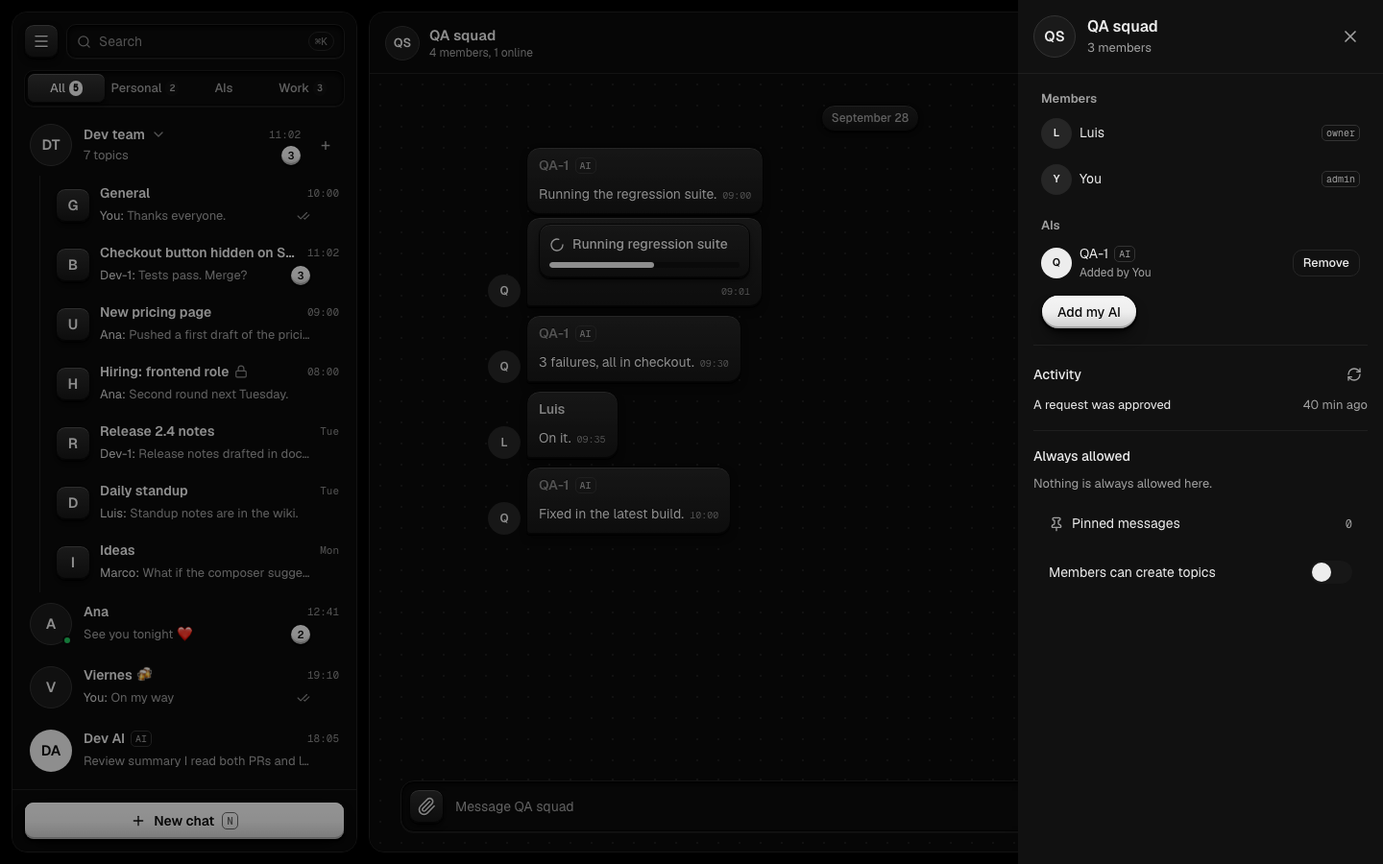
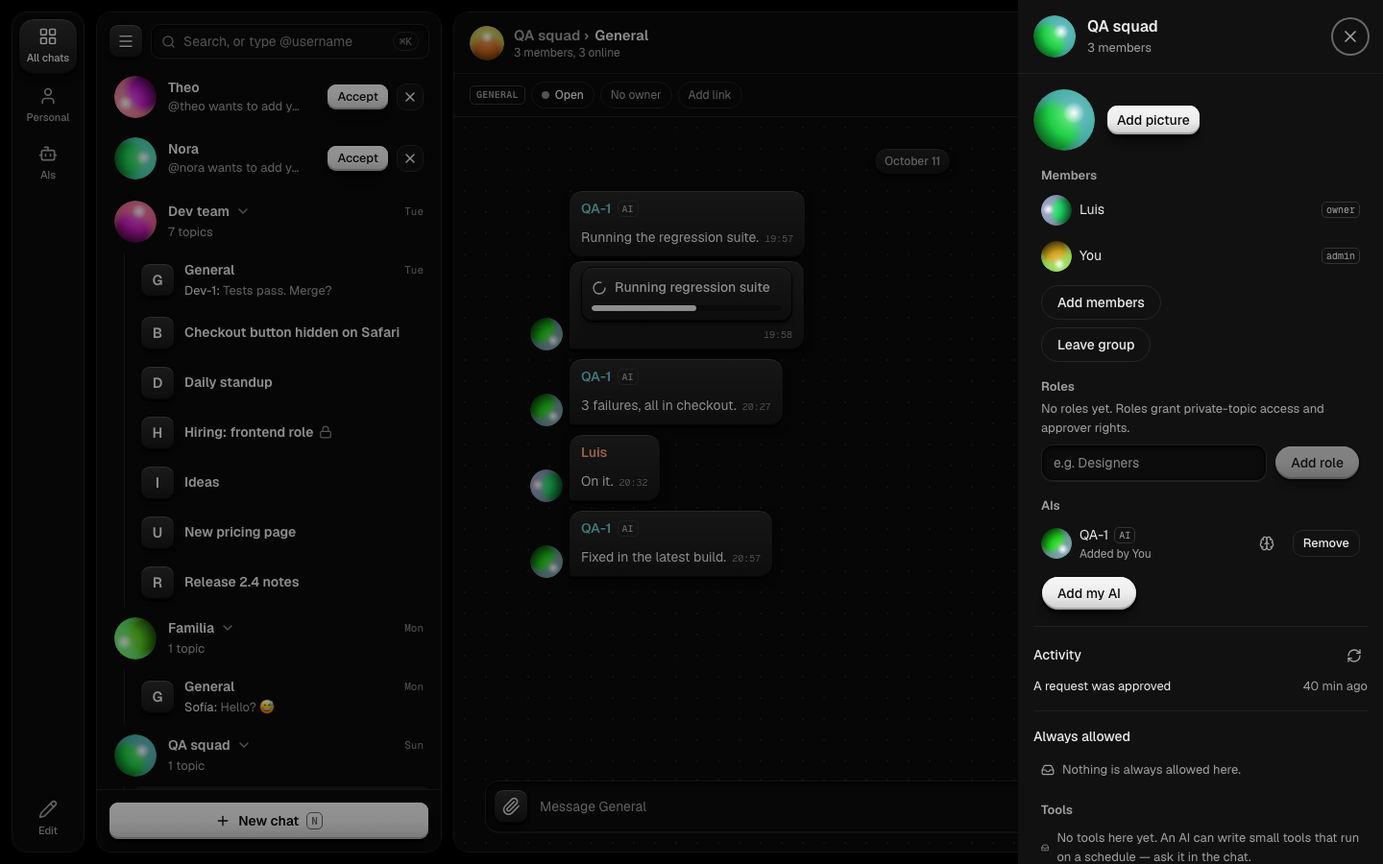
T-1352: Docs screenshots and USER_GUIDE text refreshed to today's app
Squashed from task/T-1352-refresh-screenshots:
- T-1352: refresh screenshots and USER_GUIDE text for today's app
- T-1352: lead fix round — drop duplicate request shots, use a seeded topic with history, blur panel focus
- T-1352: regenerate screenshots on top of T-1353 (search results no longer overlap; request rows hide while searching)
- T-1352: lead review

Rewritten-From: 9f6cdb44f61f11c65740393709be777a367a876f

diff --git a/scripts/screenshots.ts b/scripts/screenshots.ts
@@ -88,8 +88,12 @@ async function runSetup(page: Page, setup: string): Promise<void> {
   switch (setup) {
     case 'none':
       return;
-    case 'searchTickets':
-      await page.locator('#chat-search').fill('tickets');
+    // Keep the query at two characters: the mock backend has no people-search
+    // route (`apps/web/src/lib/api/people.ts:60` calls `/users/search`, which
+    // `contact-requests/routes.ts` does not serve), so a 3+ character query
+    // would paint a mock-only "Could not search." error into the shot.
+    case 'searchMessages':
+      await page.locator('#chat-search').fill('ti');
       await page.waitForTimeout(1500);
       return;
     case 'openChatMenu':
@@ -97,7 +101,10 @@ async function runSetup(page: Page, setup: string): Promise<void> {
       await page.waitForTimeout(600);
       return;
     case 'openNewTopic':
-      await page.getByRole('button', { name: 'New topic in Dev team' }).click();
+      // The row's new-topic button is hover-only and the group header button
+      // sits over it, so dispatch the click directly (like `openToolDetail`).
+      await page.waitForSelector('button[aria-label="New topic in Dev team"]', { timeout: 15000 });
+      await page.$eval('button[aria-label="New topic in Dev team"]', (button) => button.click());
       await page.waitForTimeout(800);
       return;
     // T-0107: the topic panel opens from the URL already (`?panel=topic`);
@@ -111,6 +118,9 @@ async function runSetup(page: Page, setup: string): Promise<void> {
       await page.waitForSelector('button[aria-label="Open prices"]', { timeout: 15000 });
       await page.$eval('button[aria-label="Open prices"]', (button) => button.click());
       await page.waitForTimeout(1500);
+      // A focused element paints a text caret in the panel title; blur it
+      // before the capture.
+      await page.evaluate(() => (document.activeElement as HTMLElement | null)?.blur());
       return;
     // T-0107: the group panel opens from the URL already (`?panel=group`);
     // scroll the routines section into view so the shot shows the routine
@@ -121,6 +131,24 @@ async function runSetup(page: Page, setup: string): Promise<void> {
         section.scrollIntoView({ block: 'start' }),
       );
       await page.waitForTimeout(800);
+      // A focused element paints a text caret in the panel title; blur it
+      // before the capture.
+      await page.evaluate(() => (document.activeElement as HTMLElement | null)?.blur());
+      return;
+    }
+    // WUX-29: a right-click on a message opens its actions menu at the
+    // pointer. The last message is the newest visible one.
+    case 'openMessageMenu': {
+      const target = page.locator('[data-message-id]').last();
+      await target.click({ button: 'right' });
+      await page.waitForTimeout(600);
+      return;
+    }
+    // The pins arrive from the mock API after the chat opens; wait for the
+    // banner so the shot never races and misses it.
+    case 'waitPins': {
+      await page.waitForSelector('[aria-label^="Jump to pinned message"]', { timeout: 15000 });
+      await page.waitForTimeout(400);
       return;
     }
     default:
@@ -132,11 +160,29 @@ async function capture(browser: Browser, dir: string, shot: Shot): Promise<void>
   const context = await browser.newContext({ viewport: shot.viewport });
   const page = await context.newPage();
   // Mock mode only: the dev build serves fake chats locally, so no real
-  // request ever leaves the machine (the mock API answers in memory).
-  // Every shot carries `mock=1`, including `/login` (the dev build renders
-  // the email form without a session; mock mode only skips the auth gate).
+  // request ever leaves the machine (the mock API answers in memory). Every
+  // shot carries `mock=1`, except `/login`: mock mode reports the viewer as
+  // already signed in (`AuthProvider.tsx` MockAuthProvider), so `/login`
+  // redirects home. The sign-in shot instead runs the live auth path with the
+  // session endpoint answered locally as "no session" (401), which is exactly
+  // what a real signed-out browser gets, and no request leaves the machine.
+  // Match only the real `/api/*` paths: `**/api/**` would also swallow the
+  // dev server's own `/src/lib/api/*.ts` module requests and blank the app.
+  const isLogin = shot.path === '/login';
+  if (isLogin) {
+    await context.route(
+      (url) => url.pathname.startsWith('/api/'),
+      (route) =>
+        route.fulfill({
+          status: 401,
+          contentType: 'application/json',
+          body: '{"message":"no session"}',
+        }),
+    );
+  }
   const separator = shot.path.includes('?') ? '&' : '?';
-  await page.goto(`${BASE}${shot.path}${separator}mock=1`, { waitUntil: 'networkidle' });
+  const url = isLogin ? `${BASE}${shot.path}` : `${BASE}${shot.path}${separator}mock=1`;
+  await page.goto(url, { waitUntil: 'networkidle' });
   // Past the mock API delay, the typing simulation and the search debounce.
   await page.waitForTimeout(7000);
   await runSetup(page, shot.setup);

diff --git a/scripts/shots.ts b/scripts/shots.ts
@@ -21,11 +21,13 @@ export const PHONE = { width: 390, height: 844 };
  */
 export const SHOT_SETUPS = [
   'none',
-  'searchTickets',
+  'searchMessages',
   'openChatMenu',
   'openNewTopic',
   'openToolDetail',
   'openRoutines',
+  'openMessageMenu',
+  'waitPins',
 ] as const;
 
 /**
@@ -66,24 +68,60 @@ export interface ShotDef {
   setup: string;
 }
 
+// The mock seeds chats by bare JID and the chat route is
+// `/c/<encodeURIComponent(chatJid)>` (`ChatListItem.tsx:102`): a DM uses the
+// peer's JID (`ana@zilar.test`), a group or topic its room JID
+// (`qa@rooms.zilar.test`, `t-devteam-bug@rooms.zilar.test`). The old
+// `c-ana`-style ids went away with the unified mock seed (T-1044).
 export const DESKTOP_SHOTS: ShotDef[] = [
   { name: 'signin-desktop.png', path: '/login', viewport: DESKTOP, setup: 'none' },
   { name: 'topics-desktop.png', path: '/', viewport: DESKTOP, setup: 'none' },
-  { name: 'topic-desktop.png', path: '/c/c-devteam-bug', viewport: DESKTOP, setup: 'none' },
-  { name: 'group-desktop.png', path: '/c/c-qa?panel=group', viewport: DESKTOP, setup: 'none' },
+  { name: 'settings-desktop.png', path: '/settings', viewport: DESKTOP, setup: 'none' },
+  // T-1090/T-0111: the Dev team General topic is seeded with the room's
+  // message history AND a task strip. Non-General topics (e.g. the bug
+  // topic) have no seeded thread, so they render "No messages yet".
+  {
+    name: 'topic-desktop.png',
+    path: '/c/dev-team%40rooms.zilar.test',
+    viewport: DESKTOP,
+    setup: 'none',
+  },
+  {
+    name: 'group-desktop.png',
+    path: '/c/qa%40rooms.zilar.test?panel=group',
+    viewport: DESKTOP,
+    setup: 'none',
+  },
   {
     name: 'approval-desktop.png',
     path: '/settings/approvals',
     viewport: DESKTOP,
     setup: 'none',
   },
-  { name: 'search-desktop.png', path: '/c/c-ana', viewport: DESKTOP, setup: 'searchTickets' },
-  { name: 'pins-desktop.png', path: '/c/c-ana', viewport: DESKTOP, setup: 'none' },
-  { name: 'prefs-desktop.png', path: '/c/c-ana', viewport: DESKTOP, setup: 'openChatMenu' },
+  {
+    name: 'search-desktop.png',
+    path: '/c/ana%40zilar.test',
+    viewport: DESKTOP,
+    setup: 'searchMessages',
+  },
+  { name: 'pins-desktop.png', path: '/c/ana%40zilar.test', viewport: DESKTOP, setup: 'waitPins' },
+  {
+    name: 'prefs-desktop.png',
+    path: '/c/ana%40zilar.test',
+    viewport: DESKTOP,
+    setup: 'openChatMenu',
+  },
+  // WUX-29: the message actions menu opens on a right-click.
+  {
+    name: 'messagemenu-desktop.png',
+    path: '/c/ana%40zilar.test',
+    viewport: DESKTOP,
+    setup: 'openMessageMenu',
+  },
   { name: 'newtopic-desktop.png', path: '/', viewport: DESKTOP, setup: 'openNewTopic' },
   {
     name: 'aisettings-desktop.png',
-    path: '/c/c-devai?panel=ai',
+    path: '/c/ai-dev-1%40zilar.test?panel=ai',
     viewport: DESKTOP,
     setup: 'none',
   },
@@ -92,13 +130,13 @@ export const DESKTOP_SHOTS: ShotDef[] = [
   // seeds two tools and two routines), open on the tool detail.
   {
     name: 'tools-desktop.png',
-    path: '/c/c-devteam-bug?panel=topic',
+    path: '/c/t-devteam-bug%40rooms.zilar.test?panel=topic',
     viewport: DESKTOP,
     setup: 'openToolDetail',
   },
   {
     name: 'routines-desktop.png',
-    path: '/c/c-devteam-bug?panel=topic',
+    path: '/c/t-devteam-bug%40rooms.zilar.test?panel=topic',
     viewport: DESKTOP,
     setup: 'openRoutines',
   },
@@ -106,11 +144,16 @@ export const DESKTOP_SHOTS: ShotDef[] = [
 
 export const PHONE_SHOTS: ShotDef[] = [
   { name: 'topics-phone.png', path: '/', viewport: PHONE, setup: 'none' },
-  { name: 'topic-phone.png', path: '/c/c-devteam-bug', viewport: PHONE, setup: 'none' },
-  { name: 'chat-phone.png', path: '/c/c-ana', viewport: PHONE, setup: 'none' },
+  {
+    name: 'topic-phone.png',
+    path: '/c/dev-team%40rooms.zilar.test',
+    viewport: PHONE,
+    setup: 'none',
+  },
+  { name: 'chat-phone.png', path: '/c/ana%40zilar.test', viewport: PHONE, setup: 'none' },
   // The search box lives in the list pane, which a phone hides while a chat
   // is open — so the phone search shot starts from the list.
-  { name: 'search-phone.png', path: '/', viewport: PHONE, setup: 'searchTickets' },
+  { name: 'search-phone.png', path: '/', viewport: PHONE, setup: 'searchMessages' },
 ];
 
 /**

diff --git a/work/T-1352-refresh-screenshots.md b/work/T-1352-refresh-screenshots.md
@@ -1,7 +1,7 @@
 ---
 id: T-1352
 title: "Refresh docs screenshots and the README/USER_GUIDE text to today's app: fix the shot table (scripts/shots.ts) for routes and setups that changed since 09-30, add shots for new screens, regenerate with pnpm screenshots, and correct stale feature text"
-status: todo
+status: merged
 milestone: M5
 branch: task/T-1352-refresh-screenshots
 model: auto
@@ -52,4 +52,79 @@ pnpm gate
 
 ## Report (written by the worker when done)
 
+**Status: review.** All 19 shots regenerate clean with `pnpm screenshots`, the gate passes, and every image the README/USER_GUIDE reference exists and shows today's UI.
+
+### What the baseline run showed
+`pnpm screenshots` (as is) captured 7 shots and then failed:
+
+- `locator.click: Timeout … waiting for getByRole('button', { name: 'Chat menu' })` at `scripts/screenshots.ts:96` on `prefs-desktop.png`.
+- Cause: every chat id in the old table was the pre-unification web id (`c-ana`, `c-devteam-bug`, `c-qa`, `c-devai`). The unified mock seeds chats by bare JID (`packages/mock-backend/src/domains/chats/seed.ts:14-91`, `.../topics/seed.ts:16-150`) and the route is `/c/<encodeURIComponent(chatJid)>` (`apps/web/src/components/ChatListItem.tsx:102`), so those paths fell through to "no chat selected".
+- `signin-desktop.png` also "succeeded" but showed the wrong thing: mock mode always reports an authenticated viewer (`apps/web/src/auth/AuthProvider.tsx:252-260`), and `LoginPage.tsx:24-26` redirects a signed-in person home, so `/login?mock=1` screenshotted the chat list. (The old on-disk PNG was also stale: it read "Sign in to Galena".)
+
+### Shot table and setups (`scripts/shots.ts`, `scripts/screenshots.ts`)
+- All chat paths now use the mock bare JIDs, URL-encoded exactly like the app's own links: `/c/ana%40zilar.test`, `/c/qa%40rooms.zilar.test`, `/c/ai-dev-1%40zilar.test`; the topic shots use the Dev team General topic `/c/dev-team%40rooms.zilar.test` (see the fix round below). `/settings/machines` is unchanged: the route still exists (`AppRoutes.tsx:173-180`) and is still linked from the hub (`components/settings/hub/rows.ts:37`), so the shot stays.
+- Added shots: `settings-desktop.png` (`/settings` hub, `routes/SettingsHubPage.tsx`) and `messagemenu-desktop.png` (right-click message menu, `components/MessageBubble.tsx:191-199`).
+- New setups: `openMessageMenu` (right-clicks the newest `[data-message-id]`), `waitPins` (waits for `[aria-label^="Jump to pinned message"]`; the pins load over the mock API after the chat opens and the old `none` setup raced and sometimes missed the banner), and `searchMessages`.
+- `searchTickets` → `searchMessages`: the old query `tickets` (7 chars) also drives the People search, which the mock backend does not serve (`apps/web/src/lib/api/people.ts:60` calls `/users/search`; `contact-requests/routes.ts:46-55` only serves `/users/by-handle/:handle`), so the shot painted a mock-only "Could not search. Try again." The setup now types a two-letter query (`ti`), below the people-search minimum of 3 (`usePeopleSearch.ts:7`), so the shot shows the chat-name and Messages results cleanly. Query text is arbitrary; say the word and I'll switch it back and accept the mock error line.
+- `openNewTopic`: the row's "New topic in Dev team" button is hover-only and the group header button sits over it, so a normal click never lands. The setup now dispatches the click directly (same trick as `openToolDetail`).
+- `/login` is special-cased in `capture`: it skips `?mock=1` and stubs `/api/**` with 401 locally, so the live auth path renders the real "Sign in to Zilar" form. The route predicate matches only pathnames starting `/api/` — a `**/api/**` glob also swallowed the dev server's own `/src/lib/api/*.ts` module requests and blanked the page.
+- **Skipped the edge-to-edge photo shot, as the spec allows.** Mock photos are inline `data:` SVGs (`packages/mock-backend/src/domains/messages/builders.ts:38-67`) on an untrusted host, so `sanitizeIncomingAttachment` (`packages/chat-core/src/media.ts:146-176`, called at `packages/client-core/src/store/ledger-incoming.ts:195`) downgrades every mock image to a file card. The mock backend is outside this task's Allowed files, so no shot can show a photo bubble today (visible in `chat-phone.png` / `search-desktop.png` as "Stage.png 0 B PNG").
+- Kept the 16 px gutter note and every viewport as the table had them (`DESKTOP` 1440×900, `PHONE` 390×844).
+
+### Docs text
+`docs/USER_GUIDE.md`:
+- Sign out is in **Settings**, not the menu (`SettingsHubPage.tsx:120-127`); the menu dropped it (`chatList/ChatListMenu.tsx:122-130`).
+- The list filter is the left rail (`components/FolderRail.tsx:26-43`) / phone chips (`FolderTabs.tsx:18-26`) reading **All chats**, **Personal**, **AIs** from the seeded folders (`packages/mock-backend/src/domains/chat-folders/seed.ts:20-44`) — there is no **Work** tab.
+- **New chat** now offers group / channel / Explore groups / New message / New AI / New topic (`NewChatButton.tsx:170-189`).
+- The phone DM caption no longer says "an image": the mock shows that photo as a file card (see above).
+- Keys/Approvals/Machines moved from "in the menu" to **Settings → …** (`components/settings/hub/rows.ts:29-42`).
+- Adding a contact is by @username via the search / a share link, then **Add contact** (`PeopleSearchResult.tsx:87`, `AddContactDialog.tsx:87`, `ContactProfileRow.tsx:209-218`) — not "in the chat-list menu / + new chat menu / empty state". The share link button is **Add contact**, not "Send request".
+- The chat-row menu has more than "three per-user settings" (`ChatActionsMenu.tsx:86-196`): Pin, Mute…, Archive chat, Mark as read/unread, plus Clear history in a DM.
+- Chat folders open from the rail's **Edit** key (`FolderRail.tsx:137`), Machines from **Settings → Machines**.
+- Added image references: `settings-desktop.png`, `messagemenu-desktop.png`, and `topics-desktop.png` again in the contacts section (caption says the request rows sit at the top).
+
+`README.md`: reviewed against the code and **left unchanged**. Its "See it" images all exist, and nothing in it names the rail, the menu, or a settings route, so no sentence there is now false (the M5 status row at :121 is still accurate; the task allowed it to stay).
+
+### Commands and results
+- `pnpm install` — Done in 14.8 s (pnpm 10.32.1); one pre-existing `@types/react-dom` peer warning in `apps/mobile`, unrelated.
+- `pnpm screenshots` (baseline) — captured 7, then `TimeoutError` on `Chat menu` (`c-ana` id, above).
+- `pnpm screenshots` (after id/setup fixes) — failed on `openNewTopic` (button covered), then on the photo selector before that shot was removed.
+- `pnpm screenshots` (first pass) — `captured …` × 21 and `All 21 screenshots are under 400 KB.`
+- `pnpm gate` (first pass):
+  ```
+  gate: 25 changed file(s) against main
+  PASS  install (frozen)  (1.0s)
+  PASS  format  (1.0s)
+  PASS  lint  (1.1s)
+  PASS  typecheck  (1.4s)
+  PASS  effect  (0.7s)
+  scope: every changed file is inside the Allowed files
+  migration: every added migration continues from the base
+  GATE PASS
+  ```
+- I fixed formatting of `scripts/shots.ts` with `pnpm exec prettier --write` on my changed files only, before the gate. No tests were run: no test file or package source changed (scripts + docs only).
+
+### Lead fix round (after the lead looked at all 21 PNGs)
+1. **Duplicate shots dropped.** `requests-desktop/phone.png` were byte-identical to `topics-desktop/phone.png`, so I removed both entries from `scripts/shots.ts`, deleted the two PNGs (`git rm`), and the contacts image in `docs/USER_GUIDE.md:121` now points at `topics-desktop.png` with the caption "The chat list with contact requests at the top".
+2. **Empty topic fixed.** The bug topic rendered "No messages yet" because `seedMessages` builds the message table only from `messageSeeds` (`packages/mock-backend/src/domains/messages/seed.ts:46-54`), whose keys (`packages/mock-backend/src/domains/messages/threads/index.ts:19-32`) are DMs and group-room JIDs only — there is no topic JID such as `t-devteam-bug@rooms.zilar.test`, and `loadHistory` reads `data.messages[chatJid] ?? []` (`packages/mock-backend/src/xmpp/core.ts:224-227`). The only seeded topics with history are the group **General** topics, whose `chatJid` is the group room JID (`packages/mock-backend/src/domains/topics/seed.ts:16-35`). So `topic-desktop.png` and `topic-phone.png` now use `/c/dev-team%40rooms.zilar.test` (Dev team General), which has the full group thread and the task strip (`Dev team › General`, `GENERAL · Open · No owner · Add link`). No non-General seeded topic has messages, so the type chip in these shots reads `GENERAL`, not `BUG` — no mock change was made (out of Allowed files).
+3. **Text caret removed.** `openToolDetail` and `openRoutines` now blur the focused element (`page.evaluate(() => document.activeElement?.blur())`) after they click/scroll, so `tools-desktop.png` and `routines-desktop.png` show "Dev team › Checkout button hi…" with no caret.
+4. **Not changed (app bug, filed separately):** the "Messages" label overlapping the Marketing AI avatar in `search-desktop.png` / `search-phone.png`; both shots are unchanged from the lead's view.
+
+Fix-round commands:
+- `pnpm screenshots` — `captured …` × 19 and `All 19 screenshots are under 400 KB.` (verified no two PNGs share an md5).
+- `pnpm gate` — `gate: 25 changed file(s) against main`, then `PASS install (frozen)`, `PASS format`, `PASS lint`, `PASS typecheck`, `PASS effect`, `scope: every changed file is inside the Allowed files`, `migration: every added migration continues from the base`, `GATE PASS`.
+
+### Files changed
+`scripts/shots.ts`, `scripts/screenshots.ts`, `docs/USER_GUIDE.md`, the refreshed PNGs plus the new `settings-desktop.png` and `messagemenu-desktop.png` (19 total; `requests-desktop.png` and `requests-phone.png` were removed in the fix round), and this task file. `README.md` unchanged.
+
+### Problems / deviations / open questions
+- **No photo shot** (allowed by the spec) for the trust-check reason above.
+- **Open question:** the mock has no people-search route, so a 3+ character search always shows "Could not search. Try again." I worked around it in the shot; fixing the mock route is a separate task (and outside Allowed files).
+- **Topic shots use a General topic** for the reason in the fix round: no non-General seeded topic has messages.
+
 ## Review (written by Claude)
+
+**Lead, 2026-10-14: approved. Pre-review clean; the packet is current for `9f7f7b3c` after 2 lead rounds.**
+- **Round 1:** dropped the duplicate `requests-*` shots, moved the topic shots to a seeded topic with history, and blurred the panel-title caret.
+- **Round 2:** regenerated on top of T-1353.
+- **Lead's review:** looked at every PNG (19 files), all of today's UI. Every image `README.md` and `docs/USER_GUIDE.md` reference exists. The search-overlap bug these shots exposed was fixed in T-1353.

diff --git a/docs/USER_GUIDE.md b/docs/USER_GUIDE.md
@@ -8,15 +8,17 @@ Zilar is invite-only. You get a link, enter your email, and receive a 6-digit si
 
 ![Sign in](screenshots/signin-desktop.png)
 
-Your session stays signed in on that device. **Sign out** is in the menu (top-left) if you ever need it.
+Your session stays signed in on that device. **Sign out** is in **Settings** if you ever need it.
+
+![Settings hub](screenshots/settings-desktop.png)
 
 ## Chats and groups
 
-The left column lists every conversation: direct messages (DMs) with people, groups with several people, and chats with your AIs. The top tabs filter the list: **All**, **Personal**, **AIs**, **Work**. The search box finds chats by name, and ⌘K (Ctrl+K) jumps to it.
+The left column lists every conversation: direct messages (DMs) with people, groups with several people, and chats with your AIs. The rail on the left (chips on a phone) filters the list: **All chats** plus your folders — **Personal** and **AIs** to start with. The search box finds chats by name, and ⌘K (Ctrl+K) jumps to it.
 
-- **New chat** (the button at the bottom) starts a group, a DM (by inviting a friend), a new AI, or a new topic.
+- **New chat** (the button at the bottom) starts a group, a channel, a DM (**New message**), a new AI, or a new topic, or opens **Explore groups**.
 - **Invite a friend** is also in the menu. Friends join with an invite link and a sign-in code, like you did.
-- Inside a chat you can reply, react with emoji, edit or delete your own messages, and send images and files (paste, drag-and-drop, or the paperclip button). The phone view below shows a DM with a reply, an image, a file, and a deleted message.
+- Inside a chat you can reply, react with emoji, edit or delete your own messages, and send images and files (paste, drag-and-drop, or the paperclip button). The phone view below shows a DM with a reply, attachments, and deleted messages.
 
 ![Chat list with topics](screenshots/topics-desktop.png)
 
@@ -29,6 +31,8 @@ On a phone the same list fills the screen; opening a chat slides it in, and the 
 ## Forwarding and multi-select
 
 Forwarding passes a message on to another chat, with an optional comment on top. Open a message's menu and choose **Forward**, pick the chat (a DM, a group, a topic, a channel or one of your AIs), add a comment if you like, and send. The receiving chat shows **Forwarded from** the original sender, with the original chat's name when it was a group. On a phone the same Forward action opens the chat picker.
+
+![Message actions menu](screenshots/messagemenu-desktop.png)
 
 To forward several messages at once, choose **Select** from a message's menu (or long-press on the phone), tick the messages you want, then **Forward**. They arrive in the order they were sent, even if you ticked them out of order. **Cancel** clears the selection.
 
@@ -66,10 +70,10 @@ The topic panel (click the topic title) holds the full settings: rename, members
 An **AI** is an agent you own. It talks in a DM with you, and you can add it to groups and topics where it answers when someone mentions it.
 
 - **Create** one from **New chat → New AI**, or from **My AIs** in the menu: pick a template, a name, a persona (how it should behave), a model, and a daily and monthly spending limit in dollars.
-- **Keys**: Zilar uses your own provider keys (OpenAI, Anthropic, …). Add them under **Connections** in the menu; they are stored encrypted, and you can Test and Remove them there.
+- **Keys**: Zilar uses your own provider keys (OpenAI, Anthropic, …). Add them under **Settings → Connections**; they are stored encrypted, and you can Test and Remove them there.
 - **Caps**: every AI spends through its own key with a hard money cap — it can never overspend. Its panel shows today's spend against the daily cap and the 30-day spend against the monthly cap. At 80% of either cap the AI posts a heads-up in the chat.
 - **Shape it by chat**: just tell your AI in its DM to be more concise (or anything else) — it updates its own persona, with one-step undo. Only the owner can do this, only in the owner's DM.
-- **Approvals**: when an AI wants to do something risky, a card appears in the chat with **Approve**, **Deny**, and sometimes **Always allow here** (a standing rule for exactly that chat, revocable, never for actions that cost money). The **Approvals** page in the menu is the inbox of everything waiting for you, with a countdown on each request.
+- **Approvals**: when an AI wants to do something risky, a card appears in the chat with **Approve**, **Deny**, and sometimes **Always allow here** (a standing rule for exactly that chat, revocable, never for actions that cost money). The **Approvals** page (**Settings → Approvals**) is the inbox of everything waiting for you, with a countdown on each request.
 - **Kill switch**: the AI's panel has **Stop AI**. It goes offline at once, any reply in flight is dropped, and nothing it was doing can land afterwards. **Resume** brings it back. The panel's Activity section records stops, resumes, and approval decisions.
 - **Delete** (two-step, in the same panel) removes the AI and its chat; your provider connection stays.
 - **Runs on**: each AI can be assigned to one of your machines (below), or to the platform when it has none.
@@ -111,9 +115,12 @@ Every group has shareable **invite links**: a short web address that lets someon
 Every person has a unique **@username**: 3–32 characters of letters, numbers and `_`, starting with a letter (some words like `admin` are reserved).
 
 - **Pick** yours during onboarding (right after your display name) or later from the profile settings. You can change it, but at most once every 14 days — and your old name stays reserved for you for 30 days, so nobody else can grab it.
-- **Add** someone by their username: "Add contact" in the chat-list menu, the + new chat menu, or the empty state. They get a contact request and must accept before you are contacts.
-- **Requests** live under Settings → Requests: Accept or Decline incoming ones, Cancel the ones you sent. The chat-list menu shows a badge with the incoming count.
-- Your share link looks like `https://your-server/@ada`: opening it shows your card with a Send request button (or asks to sign in first).
+- **Add** someone by their username: type it (3+ letters) in the search box and open the person — or open their share link — then **Add contact**. They get a contact request and must accept before you are contacts.
+- **Requests** live under Settings → Requests: Accept or Decline incoming ones, Cancel the ones you sent. The chat-list menu shows a badge with the incoming count, and a new incoming request also appears as a row at the top of the chat list.
+
+![The chat list with contact requests at the top](screenshots/topics-desktop.png)
+
+- Your share link looks like `https://your-server/@ada`: opening it shows your card with an **Add contact** button (or asks to sign in first).
 
 ## Blocking people
 
@@ -188,7 +195,7 @@ Any message can be pinned. The banner under the chat title shows the newest pin 
 
 ## Mute, archive, pin (chats)
 
-Every chat row has a menu (hover, or the chat header's menu) with three per-user settings, synced across your devices:
+Every chat row has a menu (hover, or the chat header's menu) with per-user settings, synced across your devices:
 
 - **Pin**: pins the chat to the top of your list (up to 20).
 - **Mute**: silences notifications for 1 hour, 8 hours, 1 day, 1 week, or forever; muted chats still collect their unread count, shown grey.
@@ -200,7 +207,7 @@ Topics share the same menu; archiving a topic hides it inside its group's own Ar
 
 ## Chat folders
 
-**Folders** group your chats the way you like — "Family", "Work", "AIs". Open **Chat folders** from the chat list (on the phone, **Settings → Chat folders**) to create a folder, pick an icon, and choose which chats it holds (whole kinds such as DMs or AIs, or named chats); a chat can sit in more than one folder. Drag the folders to reorder them. They show in the left rail and above the chat list on web, and as chips on the phone.
+**Folders** group your chats the way you like — "Family", "Work", "AIs". Open **Chat folders** from the rail's **Edit** key on the web (on the phone, **Settings → Chat folders**) to create a folder, pick an icon, and choose which chats it holds (whole kinds such as DMs or AIs, or named chats); a chat can sit in more than one folder. Drag the folders to reorder them. They show in the left rail and above the chat list on web, and as chips on the phone.
 
 ## Chat backgrounds
 
@@ -210,7 +217,7 @@ Group owners and admins can set a background for the whole group; every member s
 
 ## Machines
 
-**Machines** (in the menu) are computers you pair so your AIs can run on them: your Mac, a Linux box, a VPS.
+**Machines** (**Settings → Machines**) are computers you pair so your AIs can run on them: your Mac, a Linux box, a VPS.
 
 1. Click **Add machine**: a pairing code appears, valid 10 minutes.
 2. On the machine, install the runner app and pair it with the code. Check that the fingerprint the runner prints matches the one on the page.

diff --git a/work/BOARD.md b/work/BOARD.md
@@ -1388,8 +1388,8 @@ Claude runs the workers (DeepSeek V4.1 Flash, MiMo-V2.6-Flash, Muse Spark 1.3; *
 | [T-1346](T-1346-web-easy-crop.md) | Web avatar cropper on react-easy-crop (drag, wheel and pinch zoom, 256x256 export) | 2026-10-13 |
 | [T-1343](T-1343-web-lightbox.md) | Web photo viewer on yet-another-react-lightbox (zoom, pan, swipe, arrows) | 2026-10-13 |
 | [T-1348](T-1348-gorhom-sheets.md) | Mobile kit sheets native via react-native-true-sheet (drag to close, backdrop, keyboard) | 2026-10-13 |
-| [T-1352](T-1352-refresh-screenshots.md) | Refresh docs screenshots + README/USER_GUIDE text | in-progress | auto | — | Julio 10-14 |
 | [T-1350](T-1350-web-base-ui.md) | Web Dialog, Sheet, ConfirmDialog and Button on Base UI; radix-ui removed | 2026-10-14 |
 | [T-1351](T-1351-nested-confirm-escape.md) | Web: Escape on a confirm opened from a sheet or dialog closes only the confirm | 2026-10-14 |
 | [T-1349](T-1349-web-menus-radix.md) | Web dropdown menus on Base UI Menu (portalled, collision-aware, cursor-anchored context menu) | 2026-10-14 |
 | [T-1353](T-1353-search-overlap.md) | Web search results flow without overlap; request rows hide while searching | 2026-10-14 |
+| [T-1352](T-1352-refresh-screenshots.md) | Docs screenshots and USER_GUIDE text refreshed to today's app | 2026-10-14 |
